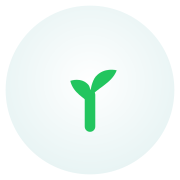
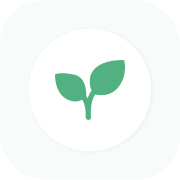
fix: sincronizar ícones com repositório principal (commit 97228e6)
- favicon.svg: apenas planta sem fundo (para aba do navegador)
- favicon-32.png: novo arquivo 32x32 para navegadores
- favicon.png: ícone PNG padrão
- favicon.ico: ícone ICO atualizado
- apple-touch-icon.png: Sprout com borda arredondada iOS 180x180
- icon-192.png: Sprout com círculo para PWA Android/desktop
- icon-512.png: versão 512px atualizada
- icon.svg: SVG do ícone atualizado
- index.html: atualizado para usar favicon.svg + favicon-32.png + apple-touch-icon.png

Changed region(s): [[0.3056, 0.3333, 0.6944, 0.75]]

diff --git a/client/index.html b/client/index.html
@@ -10,7 +10,8 @@
     <meta name="description" content="Aplicativo profissional para gerenciamento de estufas de cultivo indoor com monitoramento de parâmetros, alertas automáticos e calculadoras práticas" />
     
     <!-- Favicon -->
-    <link rel="icon" type="image/png" sizes="32x32" href="/favicon.png" />
+    <link rel="icon" type="image/svg+xml" href="/favicon.svg" />
+    <link rel="icon" type="image/png" sizes="32x32" href="/favicon-32.png" />
     <link rel="icon" type="image/png" sizes="192x192" href="/icon-192.png" />
     <link rel="icon" type="image/png" sizes="512x512" href="/icon-512.png" />
     
@@ -19,7 +20,7 @@
     <meta name="apple-mobile-web-app-capable" content="yes" />
     <meta name="apple-mobile-web-app-status-bar-style" content="black-translucent" />
     <meta name="apple-mobile-web-app-title" content="App Cultivo" />
-    <link rel="apple-touch-icon" href="/icon-192.png" />
+    <link rel="apple-touch-icon" href="/apple-touch-icon.png" />
     <link rel="manifest" href="/manifest.json" />    
     <!-- Google Fonts: Geist (modern, technical, premium) -->
     <link rel="preconnect" href="https://fonts.googleapis.com" />
